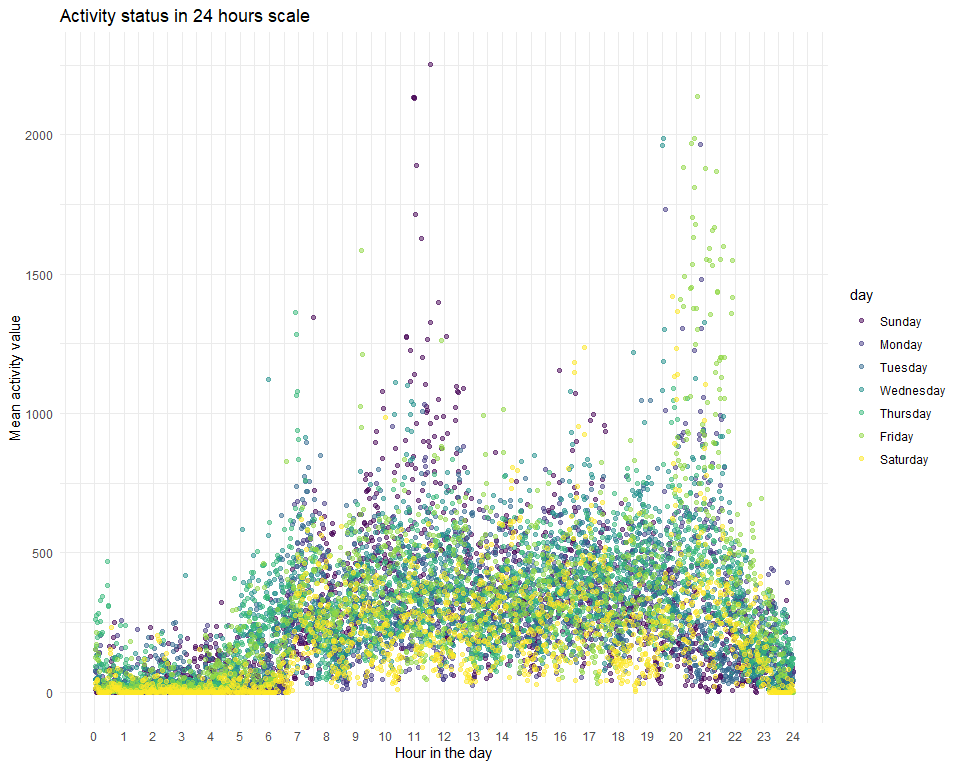
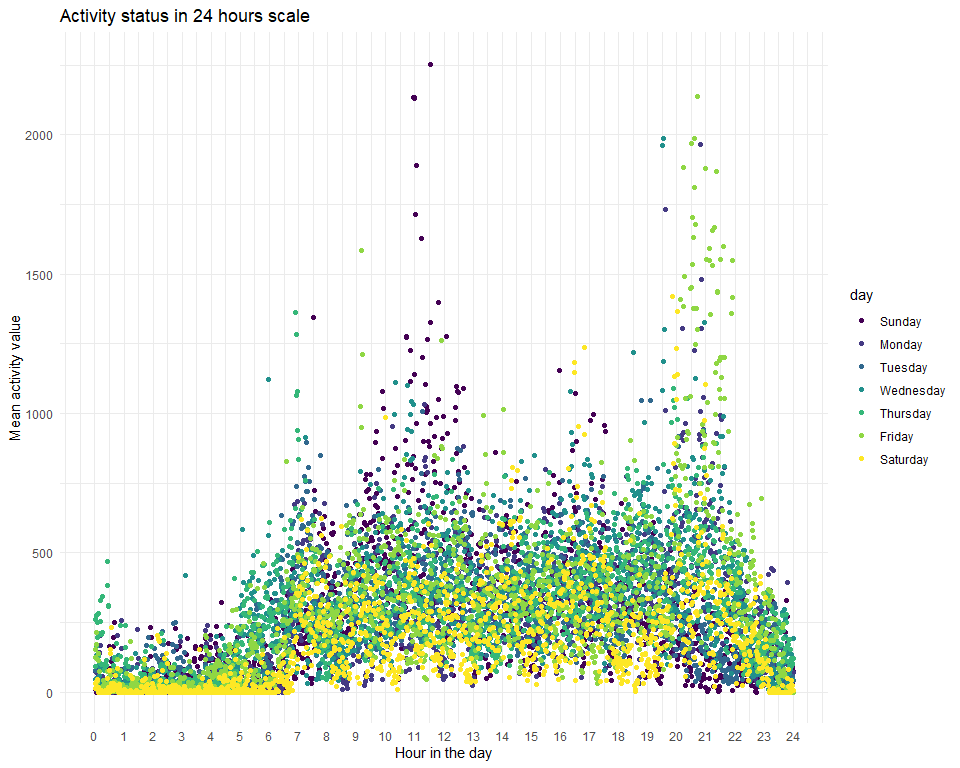
general structure completed. need update for panel and excellent plot. 1007

diff --git a/p8105_hw3_wk2343_rmd.md b/p8105_hw3_wk2343_rmd.md
@@ -56,31 +56,53 @@ instacart %>%
   count(aisle, name = "n_items_ordered") %>% 
   arrange(desc(n_items_ordered)) %>% 
   head(n = 10L) %>% 
+  rename("Aisles" = aisle,
+         "Items Ordered" = n_items_ordered) %>% 
   knitr::kable()
 ```
 
-| aisle                         | n\_items\_ordered |
-| :---------------------------- | ----------------: |
-| fresh vegetables              |            150609 |
-| fresh fruits                  |            150473 |
-| packaged vegetables fruits    |             78493 |
-| yogurt                        |             55240 |
-| packaged cheese               |             41699 |
-| water seltzer sparkling water |             36617 |
-| milk                          |             32644 |
-| chips pretzels                |             31269 |
-| soy lactosefree               |             26240 |
-| bread                         |             23635 |
+| Aisles                        | Items Ordered |
+| :---------------------------- | ------------: |
+| fresh vegetables              |        150609 |
+| fresh fruits                  |        150473 |
+| packaged vegetables fruits    |         78493 |
+| yogurt                        |         55240 |
+| packaged cheese               |         41699 |
+| water seltzer sparkling water |         36617 |
+| milk                          |         32644 |
+| chips pretzels                |         31269 |
+| soy lactosefree               |         26240 |
+| bread                         |         23635 |
 
 The top 10 ordered aisles are shown in the table above.  
 Also, there are 134 aisles in the store.
 
 ## 2\. Plot aisles with more than 10000 items
 
-instacart %\>% group\_by(aisle) %\>% summarize()
-filter(n\_items\_ordered \> 10000) %\>% arrange(desc(n\_items\_ordered))
+``` r
+instacart %>% 
+  count(aisle, name = "n_items_ordered") %>% 
+# arrange by items ordered, and cut off those < 10000
+  arrange(desc(n_items_ordered)) %>% 
+  filter(n_items_ordered > 10000) %>% 
+# reorder aisle according to items ordered rank
+  mutate(rank = c(1: length(aisle) ),
+         aisle = fct_reorder(aisle, rank)) %>%
+  ggplot(aes(x = rank, y = n_items_ordered, fill = aisle)) + 
+  geom_bar(stat = "identity", width = 0.7) +
+  labs(title = "Aisles with > 10000 items ordered",
+       x = "Rank of items ordered",
+       y = "Items sum",
+       fill = "Aisles")
+```
 
-ggplot() + histogram()
+<img src="p8105_hw3_wk2343_rmd_files/figure-gfm/unnamed-chunk-3-1.png" width="90%" />
+
+In this case, I consider bar plot useful to describe the 39 aisles that
+has more than 10,000 items ordered. While fresh vegetables stays at the
+top, buttler is ordered the least among these “popular” aisles. To
+facilitate reading, I set the order of aisles according to accumulative
+items ordered.
 
 ## 3\. Most popular items in three aisles
 
@@ -93,21 +115,24 @@ instacart %>%
          min_rank(desc(n)) < 4 & aisle == "dog food care" |
          min_rank(desc(n)) < 4 & aisle == "packaged vegetables fruits"
          ) %>% 
-  arrange(aisle, desc(n)) %>% 
+  arrange(aisle, desc(n)) %>%
+  rename("Aisles" = aisle,
+         "Product Name" = product_name,
+         "Items Ordered" = n) %>% 
   knitr::kable()
 ```
 
-| aisle                      | product\_name                                 |    n |
-| :------------------------- | :-------------------------------------------- | ---: |
-| baking ingredients         | Light Brown Sugar                             |  499 |
-| baking ingredients         | Pure Baking Soda                              |  387 |
-| baking ingredients         | Cane Sugar                                    |  336 |
-| dog food care              | Snack Sticks Chicken & Rice Recipe Dog Treats |   30 |
-| dog food care              | Organix Chicken & Brown Rice Recipe           |   28 |
-| dog food care              | Small Dog Biscuits                            |   26 |
-| packaged vegetables fruits | Organic Baby Spinach                          | 9784 |
-| packaged vegetables fruits | Organic Raspberries                           | 5546 |
-| packaged vegetables fruits | Organic Blueberries                           | 4966 |
+| Aisles                     | Product Name                                  | Items Ordered |
+| :------------------------- | :-------------------------------------------- | ------------: |
+| baking ingredients         | Light Brown Sugar                             |           499 |
+| baking ingredients         | Pure Baking Soda                              |           387 |
+| baking ingredients         | Cane Sugar                                    |           336 |
+| dog food care              | Snack Sticks Chicken & Rice Recipe Dog Treats |            30 |
+| dog food care              | Organix Chicken & Brown Rice Recipe           |            28 |
+| dog food care              | Small Dog Biscuits                            |            26 |
+| packaged vegetables fruits | Organic Baby Spinach                          |          9784 |
+| packaged vegetables fruits | Organic Raspberries                           |          5546 |
+| packaged vegetables fruits | Organic Blueberries                           |          4966 |
 
 As the table shown above, these are the top three popular products
 within their respective aisle with their ordered count.
@@ -126,10 +151,11 @@ instacart %>%
     names_from = order_dow,
     values_from = mean_hour
   ) %>% 
+  rename("Product Name" = product_name) %>% 
   knitr::kable(digits = 0)
 ```
 
-| product\_name    | Sunday | Monday | Tuesday | Wednesday | Thursday | Friday | Saturday |
+| Product Name     | Sunday | Monday | Tuesday | Wednesday | Thursday | Friday | Saturday |
 | :--------------- | -----: | -----: | ------: | --------: | -------: | -----: | -------: |
 | Coffee Ice Cream |     14 |     14 |      15 |        15 |       15 |     12 |       14 |
 | Pink Lady Apples |     13 |     11 |      12 |        14 |       12 |     13 |       12 |
@@ -179,31 +205,34 @@ brfss_tidy %>%
 # summing up over distinct locations
   summarize(n = n_distinct(location)) %>% 
   filter(n >= 7) %>% 
+  rename("Year" = year,
+         "State" = state,
+         "Number of Locations" = n) %>% 
   knitr::kable()
 ```
 
-| year | state |  n |
-| ---: | :---- | -: |
-| 2002 | CT    |  7 |
-| 2002 | FL    |  7 |
-| 2002 | MA    |  8 |
-| 2002 | NC    |  7 |
-| 2002 | NJ    |  8 |
-| 2002 | PA    | 10 |
-| 2010 | CA    | 12 |
-| 2010 | CO    |  7 |
-| 2010 | FL    | 41 |
-| 2010 | MA    |  9 |
-| 2010 | MD    | 12 |
-| 2010 | NC    | 12 |
-| 2010 | NE    | 10 |
-| 2010 | NJ    | 19 |
-| 2010 | NY    |  9 |
-| 2010 | OH    |  8 |
-| 2010 | PA    |  7 |
-| 2010 | SC    |  7 |
-| 2010 | TX    | 16 |
-| 2010 | WA    | 10 |
+| Year | State | Number of Locations |
+| ---: | :---- | ------------------: |
+| 2002 | CT    |                   7 |
+| 2002 | FL    |                   7 |
+| 2002 | MA    |                   8 |
+| 2002 | NC    |                   7 |
+| 2002 | NJ    |                   8 |
+| 2002 | PA    |                  10 |
+| 2010 | CA    |                  12 |
+| 2010 | CO    |                   7 |
+| 2010 | FL    |                  41 |
+| 2010 | MA    |                   9 |
+| 2010 | MD    |                  12 |
+| 2010 | NC    |                  12 |
+| 2010 | NE    |                  10 |
+| 2010 | NJ    |                  19 |
+| 2010 | NY    |                   9 |
+| 2010 | OH    |                   8 |
+| 2010 | PA    |                   7 |
+| 2010 | SC    |                   7 |
+| 2010 | TX    |                  16 |
+| 2010 | WA    |                  10 |
 
 Accordingly, in 2002,`CT`, `FL`, `MA`, `NC`, `NJ`, `PA` states have
 observations from more than 7 locations.  
@@ -224,12 +253,14 @@ brfss_tidy %>%
   ) %>% 
   ggplot(aes(x = year, y = mean_composition)) + 
     geom_line(aes(color = state)) + 
+    theme_set(theme_minimal() + theme(legend.position = "right")) +
     labs(title = "Time trend: average \"Excellent\" composition within states", 
-         x = "Year", y = "Composition(%)") + 
-    theme_set(theme_minimal() + theme(legend.position = "right"))
+         x = "Year", 
+         y = "Composition(%)",
+         color = "States")
 ```
 
-<img src="p8105_hw3_wk2343_rmd_files/figure-gfm/unnamed-chunk-8-1.png" width="90%" />
+<img src="p8105_hw3_wk2343_rmd_files/figure-gfm/unnamed-chunk-9-1.png" width="90%" />
 
 For “spaghetti” plot, since the data included all have corresponding
 discrete year, so line plots should be a good fit under this condition.
@@ -243,12 +274,13 @@ brfss_tidy %>%
   select(year, location, answer_composition, response) %>%
   ggplot(aes(x = response, y = answer_composition, color = location)) + 
   geom_point(alpha = 0.5) + geom_line() + 
-  facet_grid(~ year) +
   labs(title = "Composition according to responses between locations",
-       x = "Response(Poor ~ Excellent)",y = "Composition(%)")
+       x = "Response(Poor ~ Excellent)",y = "Composition(%)",
+       color = "Locations") + 
+  facet_grid(~ year)
 ```
 
-<img src="p8105_hw3_wk2343_rmd_files/figure-gfm/unnamed-chunk-9-1.png" width="90%" />
+<img src="p8105_hw3_wk2343_rmd_files/figure-gfm/unnamed-chunk-10-1.png" width="90%" />
 
 Given the same reason in “Excellent” plot, I consider line plots as the
 best fit. To help better recognize each location, I put points on each
@@ -294,18 +326,20 @@ indicates the subject’s activity status at that minute.
 acc_data %>% 
   group_by(day) %>% 
   summarize(day_sum = sum(activity)) %>% 
+  rename("Day of the Week" = day,
+         "Accumulated activity value" = day_sum) %>% 
   knitr::kable()
 ```
 
-| day       | day\_sum |
-| :-------- | -------: |
-| Sunday    |  1919213 |
-| Monday    |  1858701 |
-| Tuesday   |  1799247 |
-| Wednesday |  2129770 |
-| Thursday  |  2091175 |
-| Friday    |  2291702 |
-| Saturday  |  1369237 |
+| Day of the Week | Accumulated activity value |
+| :-------------- | -------------------------: |
+| Sunday          |                    1919213 |
+| Monday          |                    1858701 |
+| Tuesday         |                    1799247 |
+| Wednesday       |                    2129770 |
+| Thursday        |                    2091175 |
+| Friday          |                    2291702 |
+| Saturday        |                    1369237 |
 
 While there’s a small peak at Wednesday to Friday, the subject have a
 regular activity basis. The only exception is Saturday, which recorded a
@@ -318,17 +352,18 @@ acc_data %>%
   group_by(day, minute) %>% 
   summarize(mean_activity = mean(activity)) %>% 
   ggplot(aes(x = minute ,y = mean_activity, color = day, fill = day)) + 
-  geom_point(alpha = 0.5) + 
-  scale_x_continuous(
-    breaks = c(seq(0, 1440, by = 60)),
-    labels = c(seq(0, 24, by = 1))) + 
+  geom_point() + 
   labs(
     title = "Activity status in 24 hours scale",
     x = "Hour in the day",
-    y = "Mean activity value")
+    y = "Mean activity value",
+    color = "Day of the week") + 
+  scale_x_continuous(
+    breaks = c(seq(0, 1440, by = 60)),
+    labels = c(seq(0, 24, by = 1))) 
 ```
 
-<img src="p8105_hw3_wk2343_rmd_files/figure-gfm/unnamed-chunk-12-1.png" width="90%" />
+<img src="p8105_hw3_wk2343_rmd_files/figure-gfm/unnamed-chunk-13-1.png" width="90%" />
 
 Trend that can be seen in this plot:
 
